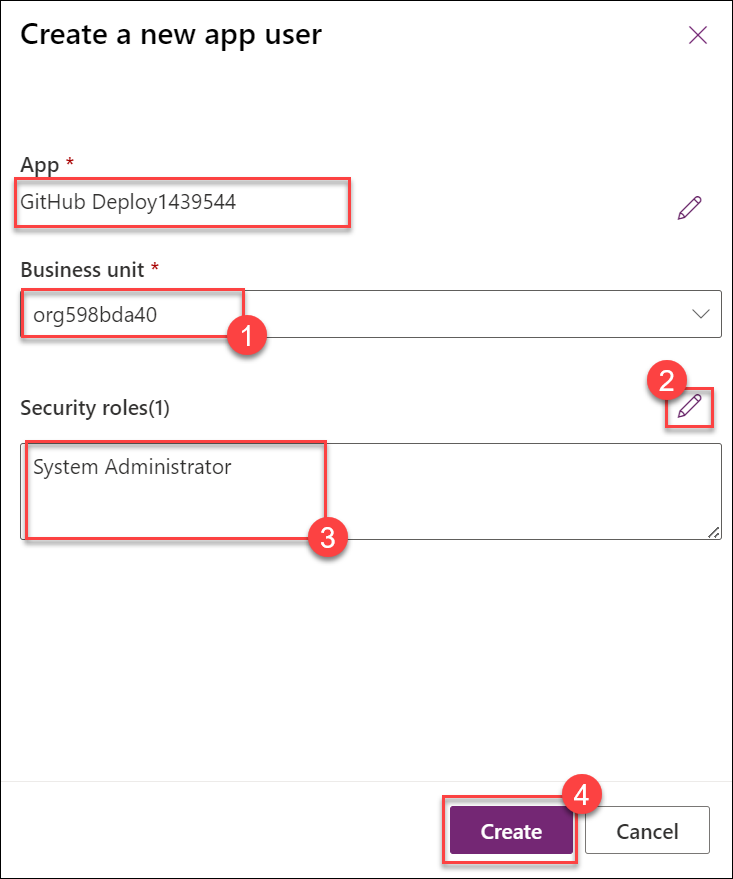
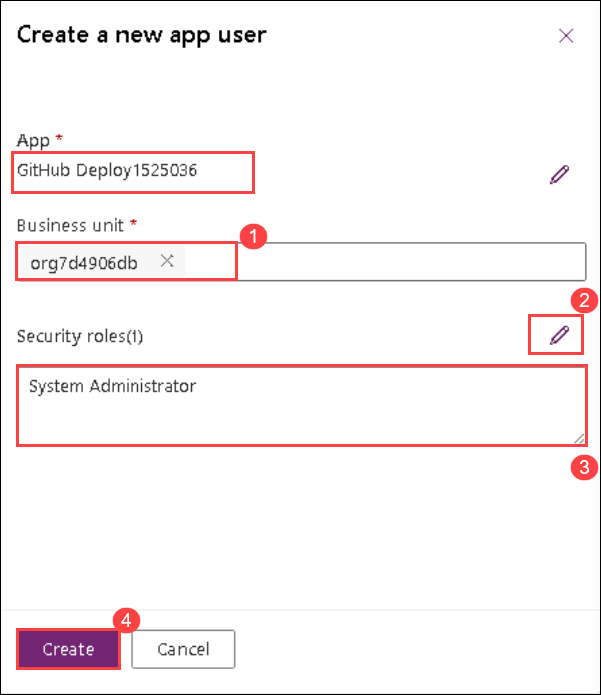
Updated

diff --git a/05Applicationlifecyclemanagement.md b/05Applicationlifecyclemanagement.md
@@ -129,7 +129,7 @@ deploy solutions.
 
    ![](images/L05/diad5l13u.png)
 
-1. Select your **Business unit** **(1)** from the drop-down and In **Security roles** click on **edit symbol (2)** and select 
+1. Type **org** and select your **Business unit** **(1)** and In **Security roles** click on **edit symbol (2)** and select 
    **System administrator(3)** then click on **Create (4)**.
 
    ![](images/L05/diad5l14u.png)
@@ -158,10 +158,10 @@ deploy solutions.
 
    ![](images/L05/diad5l13uu.png)
 
-1. Select your **Business unit** **(1)** from the drop-down and In **Security roles** click on **edit symbol (2)** and select 
+1.  Type **org** and select your **Business unit** **(1)** and In **Security roles** click on **edit symbol (2)** and select 
    **System administrator(3)** then click on **Create (4)**.
 
-   ![](images/L05/diad5l14uu.png)
+    ![](images/L05/diad5l14u.png)
    
 1. Click on **Environments** ***(1)*** from the side blade and select your **DEV_ENV_<inject key="DeploymentID" enableCopy="false" />'s environment** ***(2)***.
 
@@ -283,9 +283,11 @@ indentation shown in the images.
 
    ![](images/L05/diad5l28u.png)
 
-1. Click **Commit changes** and then click **Commit changes**.
+1. Click **Commit changes**.
     
    ![](images/L05/commit1.png)
+
+1. Then click **Commit changes**.
 
    ![](images/L05/Images202uuu.png)
 
@@ -329,8 +331,7 @@ indentation shown in the images.
 
      ![](images/L05/pr1u.png)
    
-24. You should now see the pull request summary. Confirm that the branch has no conflicts with the
-    main branch and that the changes can be merged into the main branch automatically.
+24. You should now see the pull request summary. Confirm that the branch has no conflicts with the main branch and that the changes can be merged into the main branch automatically.
    
 25. Click on the chevron button next to the **Merge pull request** button and select **Squash and**
     **merge**.
